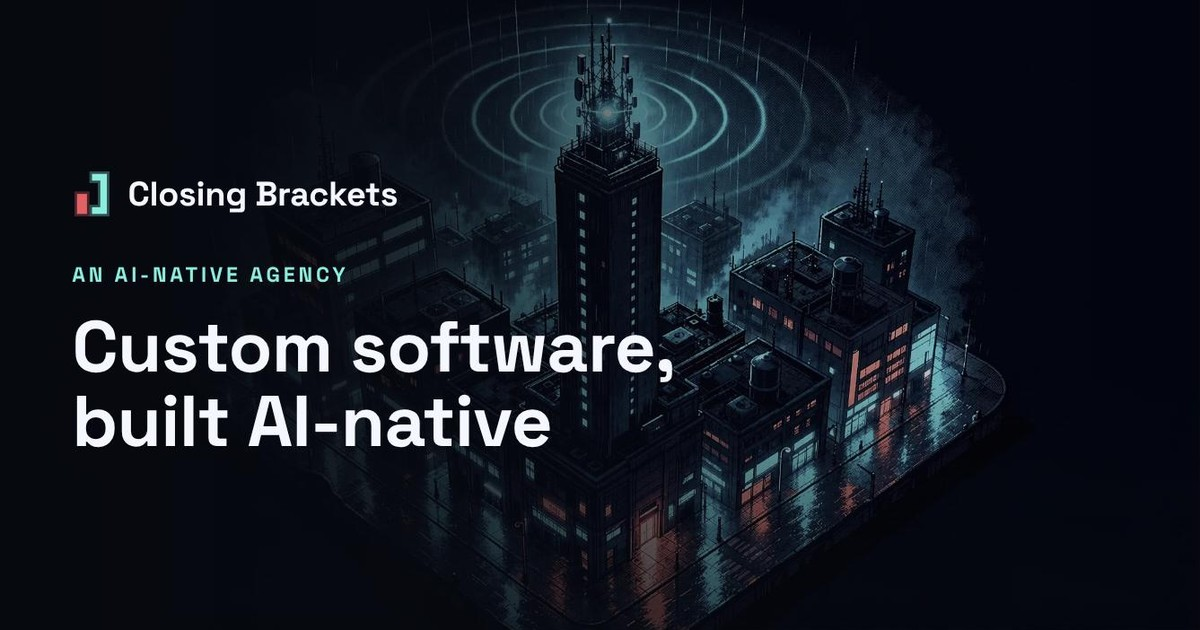
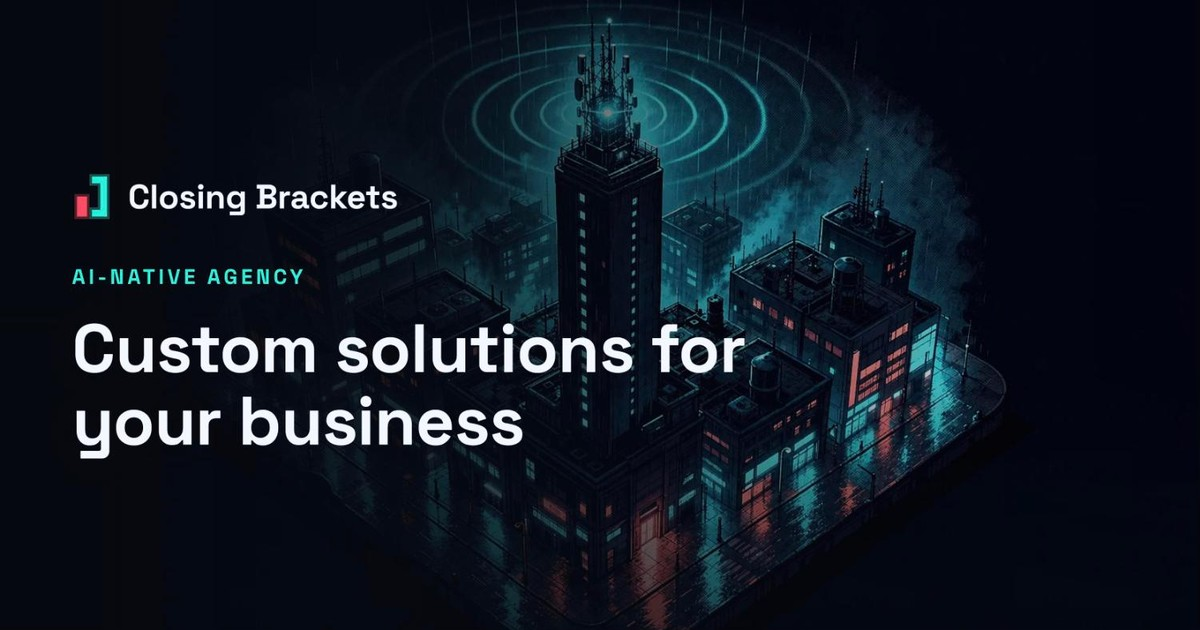
chore: styling updates

diff --git a/src/data/world.js b/src/data/world.js
@@ -25,7 +25,7 @@ export const cta = {
 export const sections = [
   {
     id: "signal",
-    label: "Overview",
+    label: "The Signal",
     still: "/assets/signal.webp",
     poster: "/assets/signal-poster.webp",
     posterMobile: "/assets/signal-poster-m.webp",
@@ -34,13 +34,13 @@ export const sections = [
     accent: "#2EF2DC",
     scroll: 1.7,
     linger: 0.45,
-    eyebrow: "An AI-native agency",
-    title: "Custom software, built AI-native",
-    body: "AI consulting, AI integration, and growth marketing from the small senior team that builds your software.",
+    eyebrow: "AI-native agency",
+    title: "Custom solutions for your business",
+    body: "AI Integration, Custom Software, and Growth Strategy. Tailored to your business, with no compromises",
   },
   {
     id: "blueprint",
-    label: "Plan",
+    label: "The Blueprint",
     still: "/assets/blueprint.webp",
     poster: "/assets/blueprint-poster.webp",
     posterMobile: "/assets/blueprint-poster-m.webp",
@@ -49,11 +49,11 @@ export const sections = [
     accent: "#2EF2DC",
     eyebrow: "AI consulting",
     title: "Where AI pays off, drawn to scale",
-    body: "Strategy and roadmap first, then a fixed plan: exact scope, a timeline with real dates, one price. No hourly billing.",
+    body: "Built from the ground up, your AI strategy is a blueprint for growth. We show you where to invest, and how to get the most out of it.",
   },
   {
     id: "forge",
-    label: "Build",
+    label: "The Forge",
     still: "/assets/forge.webp",
     poster: "/assets/forge-poster.webp",
     posterMobile: "/assets/forge-poster-m.webp",
@@ -66,7 +66,7 @@ export const sections = [
   },
   {
     id: "swarm",
-    label: "Automate",
+    label: "The Swarm",
     still: "/assets/swarm.webp",
     poster: "/assets/swarm-poster.webp",
     posterMobile: "/assets/swarm-poster-m.webp",
@@ -77,11 +77,11 @@ export const sections = [
     linger: 0.35,
     eyebrow: "AI automation",
     title: "Agents grounded in your data",
-    body: "We integrate AI into your existing systems, from pilot to production: lead intake, back-office workflows, around the clock.",
+    body: "We integrate AI into your existing systems, from pilot to production: your data, your workflows, your business rules. The result is a swarm of agents that work for you.",
   },
   {
     id: "engine",
-    label: "Grow",
+    label: "Growth Engine",
     still: "/assets/engine.webp",
     poster: "/assets/engine-poster.webp",
     posterMobile: "/assets/engine-poster-m.webp",
@@ -90,7 +90,7 @@ export const sections = [
     accent: "#FF4E64",
     eyebrow: "Growth marketing that runs",
     title: "An engine for new customers",
-    body: "Your marketing becomes a machine we keep running. It brings in customers every month, and we tune whatever performs best.",
+    body: "Your marketing becomes a machine that never turns off. The result is organic growth, powered by AI, and optimized for your business.",
   },
   {
     id: "launch",
@@ -104,8 +104,8 @@ export const sections = [
     scroll: 1.8,
     linger: 0.5,
     eyebrow: "To the Moon!",
-    title: "Prepare for Lift Off",
-    body: "Tell us your idea and you'll know the exact scope, real dates, and one fixed price before anything starts.",
+    title: "Prepare for Lift Off!",
+    body: "We are ready to launch your project into the world. Our team will ensure a smooth and successful launch, with all systems go.",
     // Single CTA on purpose: the only other route that exists is /contact/, and
     // pointing the page's most prominent action at a 404 is worse than one button.
     cta: { primary: { label: "Get Started", href: "/contact/" } },

diff --git a/src/app/layout.js b/src/app/layout.js
@@ -64,6 +64,22 @@ const jsonLd = {
       logo: `${SITE_URL}/icon.svg`,
       email: "robert@closingbrackets.com",
       description: DESCRIPTION,
+      // The visible h1 says "custom solutions" by design; the service-line
+      // keywords live here (and in the title tag / h2s) instead.
+      hasOfferCatalog: {
+        "@type": "OfferCatalog",
+        name: "Services",
+        itemListElement: [
+          "Custom software development",
+          "AI consulting",
+          "AI integration",
+          "AI automation",
+          "Growth marketing",
+        ].map((name) => ({
+          "@type": "Offer",
+          itemOffered: { "@type": "Service", name },
+        })),
+      },
     },
     {
       "@type": "WebSite",

diff --git a/src/app/components/scrub-engine.js b/src/app/components/scrub-engine.js
@@ -216,6 +216,10 @@ function mountScrollWorld(container, config) {
     copylayer.appendChild(c); copies.push(c);
 
     const dot = el('button', 'sw-route__dot'); dot.style.setProperty('--sw-accent', s.accent || '');
+    // Mobile CSS hides the label span (display:none removes it from the a11y
+    // tree), so the button needs an explicit name. Attribute-only; no visual
+    // or flight impact.
+    dot.setAttribute('aria-label', s.label || 'Scene ' + (i + 1));
     dot.innerHTML = `<span class="sw-route__label">${esc(s.label || '')}</span><i></i>`;
     dot.addEventListener('click', () => jumpTo(i)); route.appendChild(dot); dots.push(dot);
 

diff --git a/src/app/components/ScrollWorld.js b/src/app/components/ScrollWorld.js
@@ -50,7 +50,10 @@ export default function ScrollWorld({ children }) {
   }, []);
 
   return (
-    <div id="world" ref={ref}>
+    // role="main": the engine hides the static <main data-sw-seo> on mount,
+    // which would leave the visible page without a main landmark. The hidden
+    // element's landmark is ignored by the a11y tree, so these don't conflict.
+    <div id="world" role="main" ref={ref}>
       {children}
     </div>
   );
